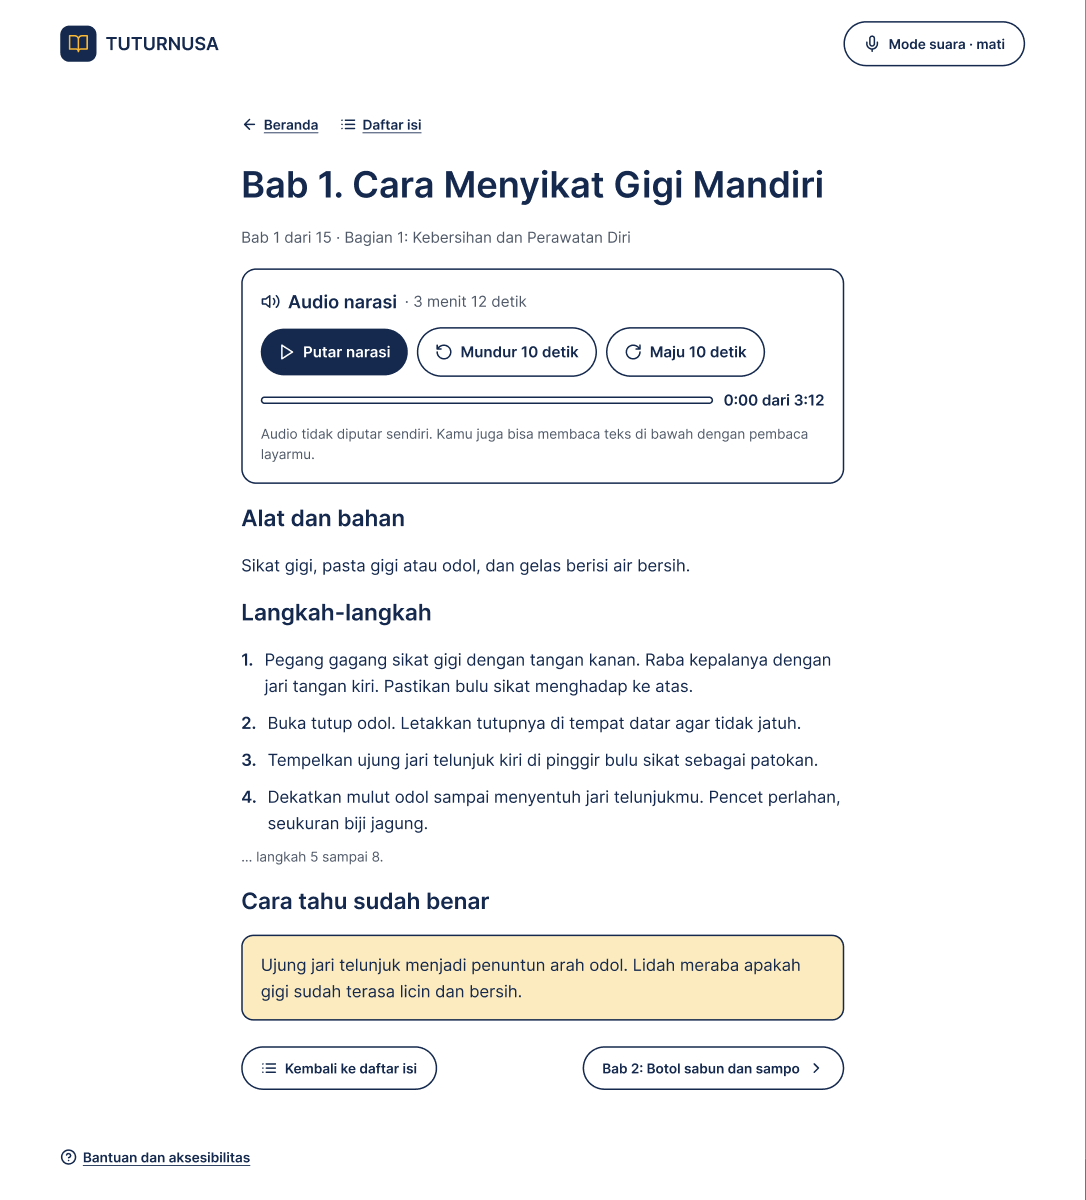
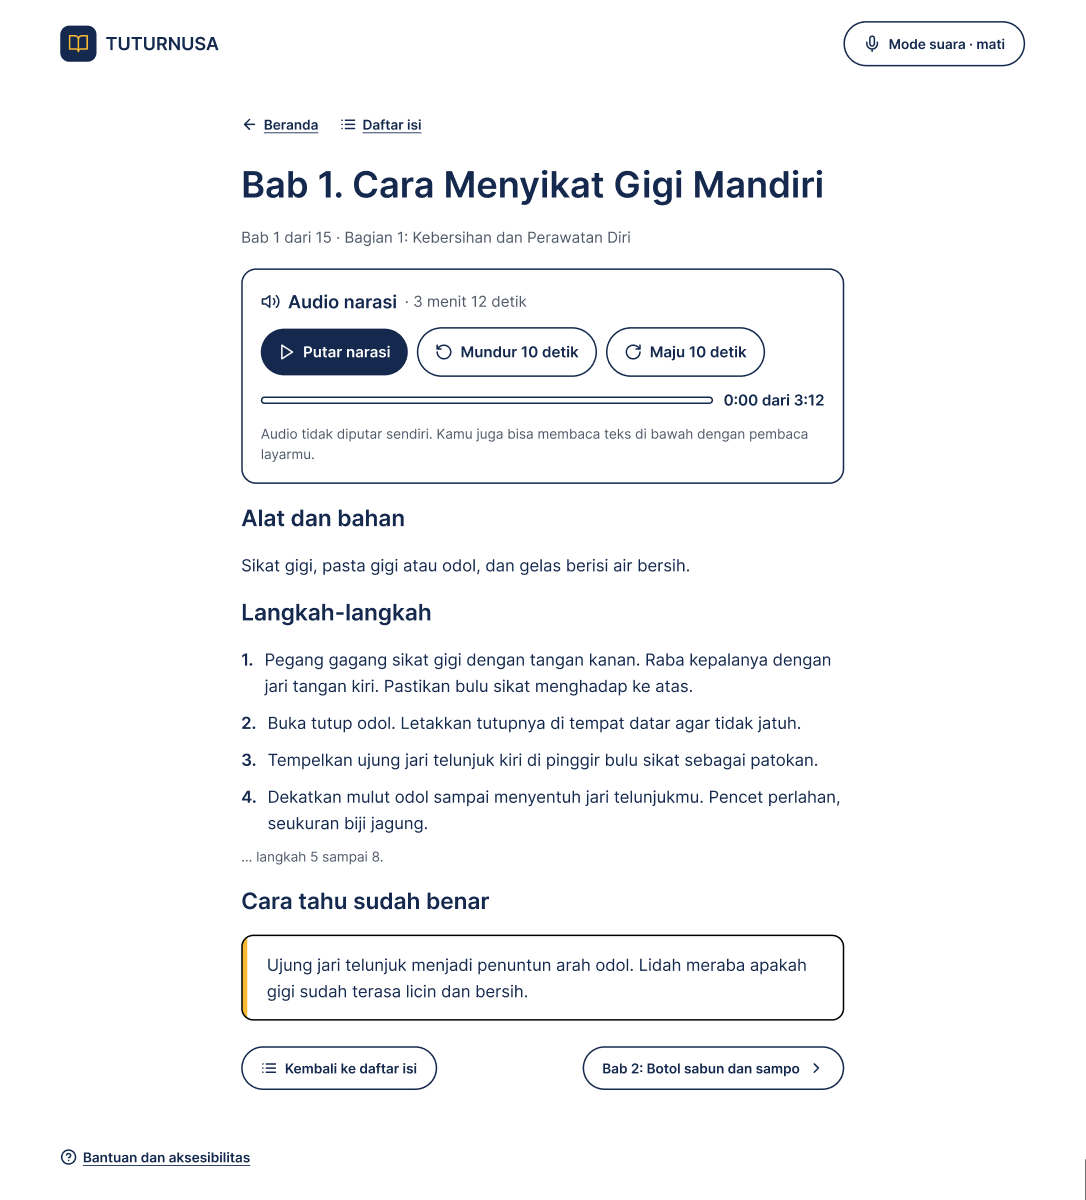
Design: all surfaces white (no pastel), tip box with navy border + orange accent

Changed region(s): [[0.2127, 0.7708, 0.7901, 0.8633]]

diff --git a/docs/orchestra/mockup-figma.md b/docs/orchestra/mockup-figma.md
@@ -6,5 +6,6 @@ File: https://www.figma.com/design/rmrzsfxcFAakWCD7mljbxP/tuturnusa — page "Tu
   Teks kartu: Ngobrol — "Bercakap dengan teman AI. Ketik atau bicara." · Ucapan — "Ucapkan satu kata. Dengarkan apakah sudah tepat." · Buku Saku — "Dengarkan panduan kegiatan sehari-hari dan senam."
 - Footer: ikon help + tautan bergaris bawah "Bantuan dan aksesibilitas".
 - Buku Saku daftar isi: kolom baca 720px. Tautan "← Beranda", h1 judul buku 44px, ringkasan 20px, h2 per Bagian 26px, lalu `<ol>` baris bab: putih, border 2px navy, radius 16, min tinggi 64, lingkaran nomor oranye 44px, "Bab N. Judul" 20px SemiBold, chevron.
-- Halaman bab: nav "← Beranda" dan "Daftar isi", meta "Bab 1 dari 15 · Bagian …" 18px, h1 44px, kotak audio (putih, border 2px, radius 20): judul "Audio narasi · durasi X menit Y detik", `<audio controls preload="none">`, kalimat "Dengarkan narasi, atau baca teks di bawah dengan pembaca layarmu. Audio tidak diputar sendiri." Lalu h2 28px "Alat dan bahan", "Langkah-langkah" (`<ol>` 20px, line-height 1.6), "Patokan indra" dalam kotak kuning lembut `#FDEBC0` + border 2px navy. Di bawah: tombol pill "Daftar isi" dan "Bab N+1: …".
+- Halaman bab: nav "← Beranda" dan "Daftar isi", meta "Bab 1 dari 15 · Bagian …" 18px, h1 44px, kotak audio (putih, border 2px, radius 20): judul "Audio narasi · durasi X menit Y detik", `<audio controls preload="none">`, kalimat "Dengarkan narasi, atau baca teks di bawah dengan pembaca layarmu. Audio tidak diputar sendiri." Lalu h2 28px "Alat dan bahan", "Langkah-langkah" (`<ol>` 20px, line-height 1.6), "Cara tahu sudah benar" (Mandiri) / "Yang kamu rasakan" (Senam) dalam kotak PUTIH + border 2px navy + garis aksen oranye 8px di kiri (dekoratif). Di bawah: tombol pill "Daftar isi" dan "Bab N+1: …".
 - **Section "Pasang aplikasi"** (PWA) di beranda di bawah 3 kartu: kotak putih border 2px navy putus-putus, radius 20; ikon ponsel + h2 "Pasang Tuturnusa di perangkat ini" 24px; kalimat 18px ink-soft "Jadi aplikasi di layar utama. Buku Saku tetap bisa didengar tanpa internet."; tombol pill navy berteks putih "Pasang aplikasi" dengan ikon unduh (muncul hanya bila bisa dipasang); tautan "Cara memasang untuk pengajar" → `/bantuan#pasang`. Mobile: tombol selebar kotak.
+- **Aturan warna permukaan (keputusan user):** semua layar dan semua permukaan berlatar **putih `#FFFFFF`**. Tidak ada latar berwarna/pastel (termasuk kotak catatan). Pembeda antar-blok memakai border navy 2px; oranye hanya sebagai latar lingkaran ikon/nomor dengan isi navy, atau garis aksen dekoratif.

diff --git a/docs/superpowers/specs/2026-11-24-tuturnusa-tunanetra-refactor-design.md b/docs/superpowers/specs/2026-11-24-tuturnusa-tunanetra-refactor-design.md
@@ -140,3 +140,4 @@ Reviewer: Claude, Codex, Cursor (`docs/research/qa-desain-bab1-*.md`). Antigravi
 - **Tautan bawah** bernama "Kembali ke daftar isi" (beda dengan "Daftar isi" di atas).
 - **Istilah (keputusan user):** judul bagian "Patokan indra" (Buku Saku Mandiri) menjadi **"Cara tahu sudah benar"**; "Patokan rasa dan napas" (Senam Dasar) menjadi **"Yang kamu rasakan"**. Isi tetap dari buku. Catatan: di PDF Senam Dasar hanya 11 dari 12 gerakan memuat "Patokan rasa dan napas" — W1-G wajib memeriksa gerakan yang tidak punya.
 - Teks penjelasan minimal 18px.
+- **Semua permukaan putih** (keputusan user): tidak ada latar pastel/berwarna di layar maupun kotak catatan; blok dibedakan dengan border navy 2px, oranye hanya aksen.
